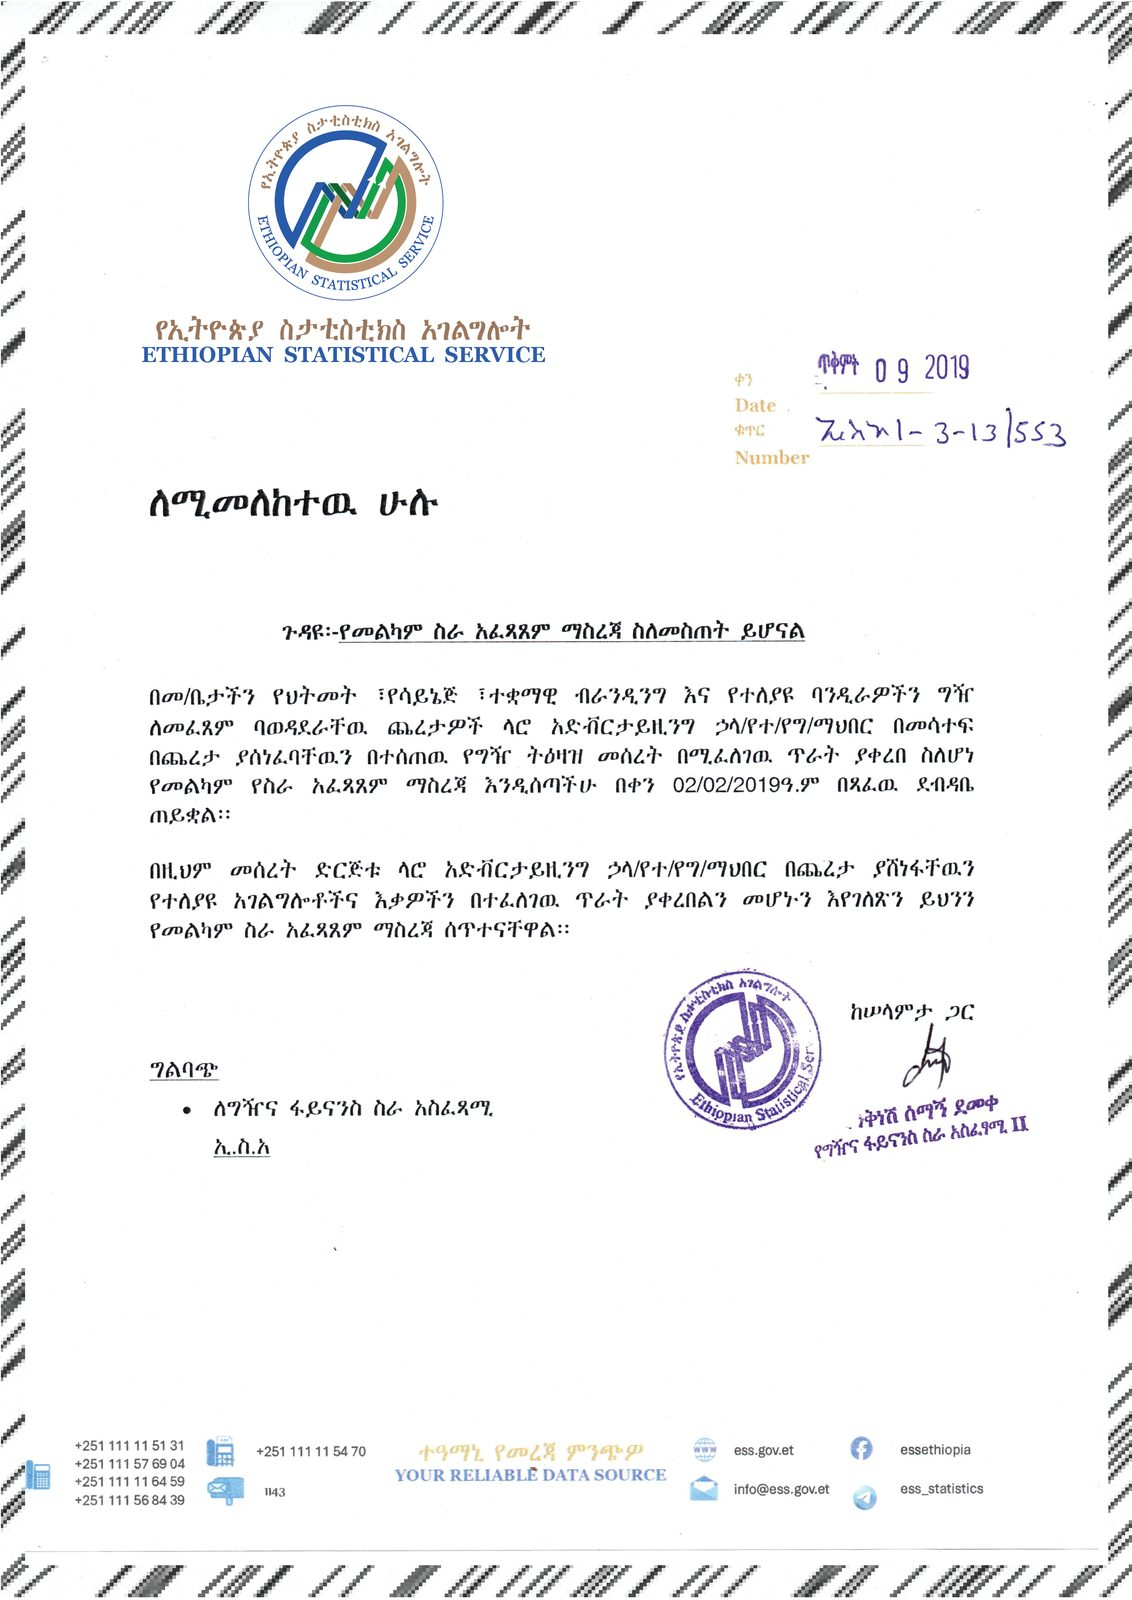
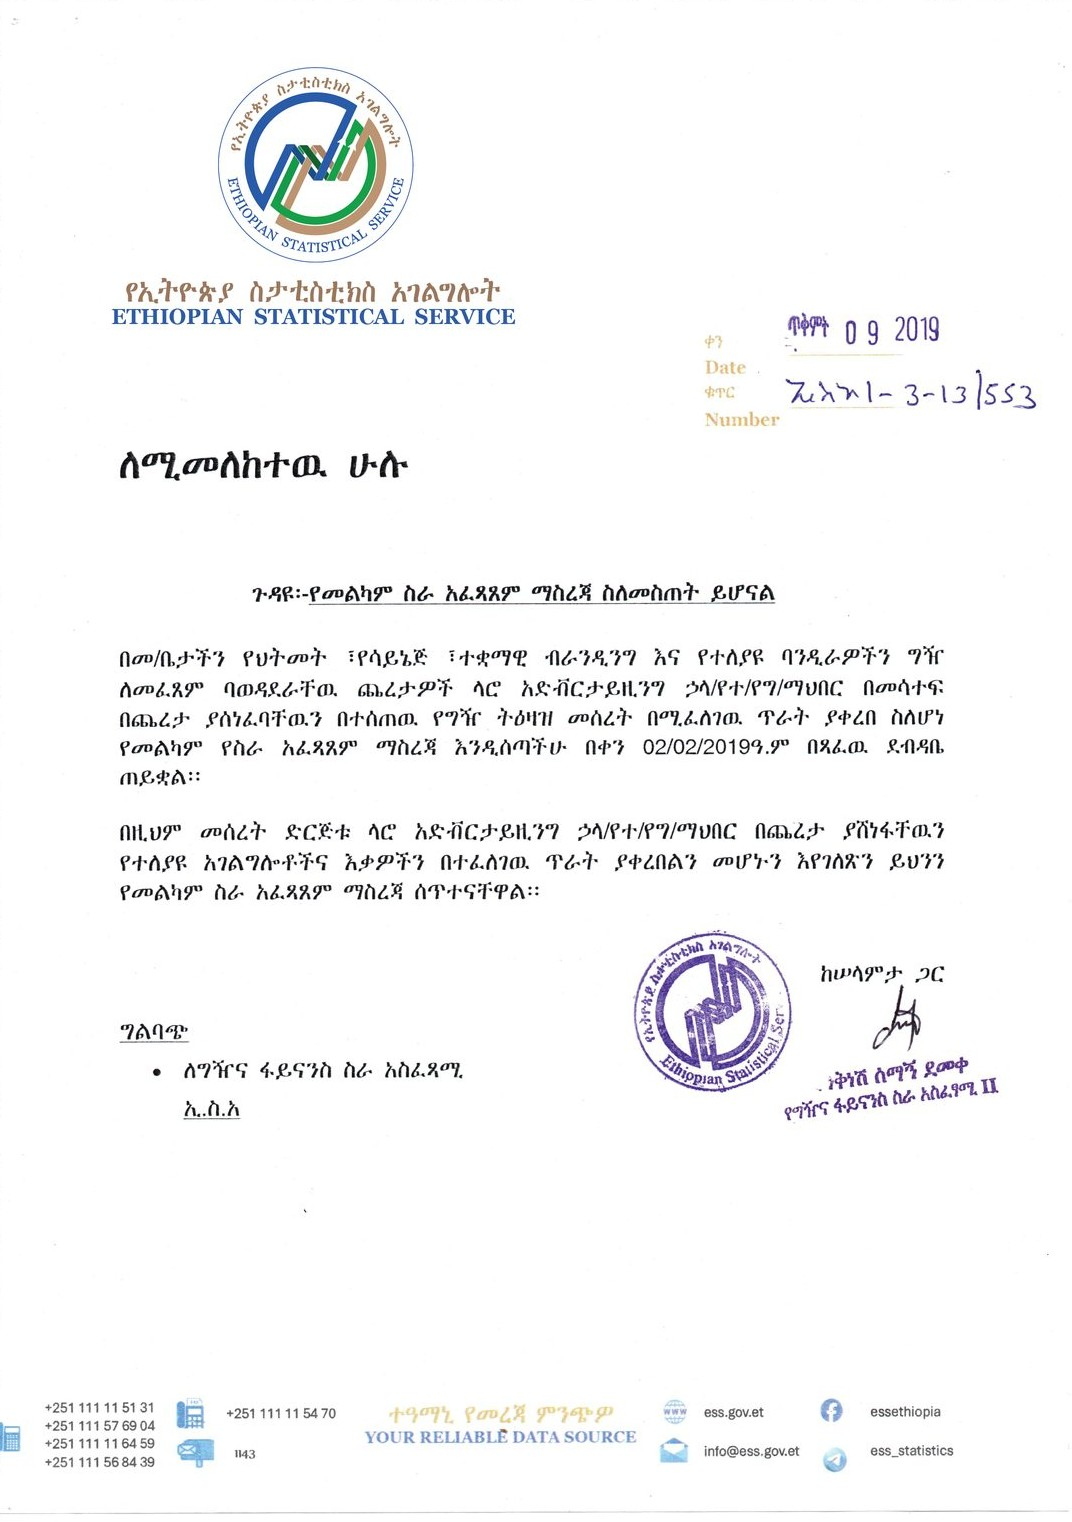
Restore pinned Our Services (faster on phones), full-bleed service cards, clean certificates
- Our Services is pinned on every device again; on phones/tablets the disc sweep is shorter
  and the cards travel ~2x faster per scroll; address-bar show/hide no longer re-measures
- Service cards (home Our Services, Services list, next-service panel) fill their frame
  again; WRI polo and GDP report get their own card crop (cardPos)
- Certificate scans cropped to the paper edge (removes the striped scan background);
  originals kept in assets/originals

Claude-Session: https://claude.ai/code/session_0163duhtEGpoyiPbDcdpewA2

diff --git a/components/PinnedServices.tsx b/components/PinnedServices.tsx
@@ -6,30 +6,33 @@ import { ArrowUpRight } from './Icons';
 import FitImg from './FitImg';
 
 // "OUR SERVICES": the section pins, a green disc sweeps across the title, then the title panel
-// slides away and the service columns travel in horizontally (wide screens with a mouse).
-// On touch devices, narrow screens or with reduced motion it is a green title block plus a native swipe row.
+// slides away and the service columns travel in horizontally, on every screen size.
+// With reduced motion it is a green title block plus a native swipe row.
 export default function PinnedServices() {
   const sec = useRef<HTMLElement>(null);
   const track = useRef<HTMLDivElement>(null);
   useEffect(() => {
     const s = sec.current, t = track.current; if (!s || !t) return;
     const reduce = window.matchMedia('(prefers-reduced-motion: reduce)').matches;
-    const coarse = window.matchMedia('(hover: none), (pointer: coarse)').matches;
-    let raf = 0;
+    let raf = 0, lastW = 0;
+    // Phones/tablets: shorter disc sweep and the cards travel about twice as fast per scroll,
+    // so the section never feels slow to get through.
+    const speed = () => (s.clientWidth < 900 ? { sweep: 0.6, travel: 0.45 } : { sweep: 1.2, travel: 1 });
     const layout = () => {
-      // Pinned horizontal scroll only on wide screens with a mouse; touch devices get a native swipe row.
-      const pin = !reduce && !coarse && innerWidth > 900;
+      lastW = s.clientWidth;
+      const pin = !reduce;
       s.classList.toggle('pinned', pin);
       if (!pin) { s.style.height = ''; t.style.transform = ''; return; }
+      const { sweep, travel } = speed();
       const dist = t.scrollWidth - s.clientWidth;
-      s.style.height = `${innerHeight * 2.2 + dist}px`;
+      s.style.height = `${innerHeight * (1 + sweep) + dist * travel}px`;
       update();
     };
     const update = () => {
       if (!s.classList.contains('pinned')) return;
       const total = s.offsetHeight - innerHeight;
       const p = Math.min(1, Math.max(0, -s.getBoundingClientRect().top / total));
-      const split = (innerHeight * 1.2) / total; // first part: disc sweep
+      const split = (innerHeight * speed().sweep) / total; // first part: disc sweep
       const a = Math.min(1, p / split);
       const b = Math.max(0, (p - split) / (1 - split));
       s.style.setProperty('--a', a.toFixed(4));
@@ -37,10 +40,12 @@ export default function PinnedServices() {
       t.style.transform = `translate3d(${(-dist * b).toFixed(1)}px, 0, 0)`;
     };
     const onScroll = () => { cancelAnimationFrame(raf); raf = requestAnimationFrame(update); };
+    // iPhone/Android fire "resize" whenever the address bar shows or hides; only re-measure when the width really changes.
+    const onResize = () => { if (Math.abs(s.clientWidth - lastW) > 2) layout(); else update(); };
     layout();
     window.addEventListener('scroll', onScroll, { passive: true });
-    window.addEventListener('resize', layout);
-    return () => { window.removeEventListener('scroll', onScroll); window.removeEventListener('resize', layout); cancelAnimationFrame(raf); };
+    window.addEventListener('resize', onResize);
+    return () => { window.removeEventListener('scroll', onScroll); window.removeEventListener('resize', onResize); cancelAnimationFrame(raf); };
   }, []);
   return (
     <section className="ps" ref={sec} aria-labelledby="ps-h">
@@ -54,7 +59,7 @@ export default function PinnedServices() {
           {services.map((s) => (
             <Link key={s.slug} href={`/services/${s.slug}`} className="ps-col" data-cursor="Explore">
               <span className="ps-fill" aria-hidden="true" />
-              <span className="ps-img" aria-hidden="true"><FitImg src={s.image} pos={s.imagePos} fit={s.imageFit} /></span>
+              <span className="ps-img" aria-hidden="true"><FitImg src={s.image} pos={s.cardPos ?? s.imagePos} /></span>
               <span className="ps-n">Service {s.n}</span>
               <span className="ps-t">{s.title}</span>
               <span className="ps-d">{s.tagline}</span>

diff --git a/lib/content.ts b/lib/content.ts
@@ -75,7 +75,8 @@ export type Service = {
   closer: string;
   image: string;
   imagePos?: string;
-  imageFit?: 'contain'; // show the whole picture (no cropping), e.g. square product shots
+  imageFit?: 'contain'; // service page hero shows the whole picture (no cropping), e.g. square product shots
+  cardPos?: string; // crop focus for the full-bleed service cards (defaults to imagePos)
   tag: string;
   group: string;
   // optional extra blocks shown on the service page (title + numbered columns)
@@ -114,7 +115,7 @@ export const services: Service[] = [
     items: ["Company profiles", "Annual reports", "Books & magazines", "Brochures & catalogues", "Calendars", "Business cards", "Letterheads", "Certificates", "Roll label printing (roll-to-roll labels)", "Product labels & stickers", "Packaging labels", "Invitations & event stationery", "Graphic design", "Large-format printing", "Finishing, binding & packaging"],
     outro: "We coordinate the complete production process, from artwork preparation and material selection to printing, finishing, quality control, and delivery.",
     closer: "Your message deserves to be produced at the right standard.",
-    image: "/images/work/gdp-rebasing-report.jpg", imagePos: "50% 45%", imageFit: "contain",
+    image: "/images/work/gdp-rebasing-report.jpg", imagePos: "50% 45%", imageFit: "contain", cardPos: "50% 48%",
     details: [
       { eyebrow: 'Labels & packaging', title: 'Roll-Type Label Printing: Features & Materials', rows: [
         { t: 'Material Versatility', d: 'Waterproof polypropylene (BOPP), paper, clear/transparent film, metallic foil, and direct thermal options.' },
@@ -146,7 +147,7 @@ export const services: Service[] = [
     items: ["Notebooks", "Branded & bamboo pens", "Bottles & mugs", "USB drives", "Power banks", "Umbrellas", "Caps, T-shirts & jackets", "Tote & recycled paper bags", "Premium corporate gifts", "Polo shirts & uniforms", "Crystal awards", "Keyholders & desk accessories", "Eco-friendly promotional items", "Conference materials"],
     outro: "Thoughtfully selected. Professionally branded. Memorable by design.",
     closer: "Thoughtfully selected. Professionally branded.",
-    image: "/images/work/wri-polo.jpg", imagePos: "50% 50%", imageFit: "contain",
+    image: "/images/work/wri-polo.jpg", imagePos: "50% 50%", imageFit: "contain", cardPos: "50% 35%",
   },
   {
     slug: "corporate-gift-boxes", n: "06", group: "Products & Production", title: "Corporate Gift Boxes", short: "Gift Boxes", tag: "Gift Boxes",

diff --git a/app/services/page.tsx b/app/services/page.tsx
@@ -22,7 +22,7 @@ export default function ServicesPage() {
                 <Link key={s.slug} href={`/services/${s.slug}`} className="svc-row reveal" data-cursor="Explore">
                   <span className="sr-n">Service {s.n}</span>
                   <span className="sr-t">{s.title}</span>
-                  <span className="sr-img"><FitImg src={s.image} pos={s.imagePos} fit={s.imageFit} /></span>
+                  <span className="sr-img"><FitImg src={s.image} pos={s.cardPos ?? s.imagePos} /></span>
                   <span className="sr-d">{s.tagline}<br /><small>{s.items.slice(0, 5).join(' · ')}</small></span>
                   <span className="sr-go"><ArrowUpRight size={24} /></span>
                 </Link>

diff --git a/app/services/[slug]/page.tsx b/app/services/[slug]/page.tsx
@@ -75,7 +75,7 @@ export default async function ServicePage({ params }: Props) {
       ) : null}
       <Link href={`/services/${next.slug}`} className="next-svc" data-cursor="Next">
         <span className="container ns-in"><span className="label">Next service · {next.n}</span><span className="ns-t">{next.title}</span><ArrowUpRight size={48} /></span>
-        <span className="ns-img" aria-hidden="true"><FitImg src={next.image} pos={next.imagePos} fit={next.imageFit} /></span>
+        <span className="ns-img" aria-hidden="true"><FitImg src={next.image} pos={next.cardPos ?? next.imagePos} /></span>
       </Link>
     </>
   );
